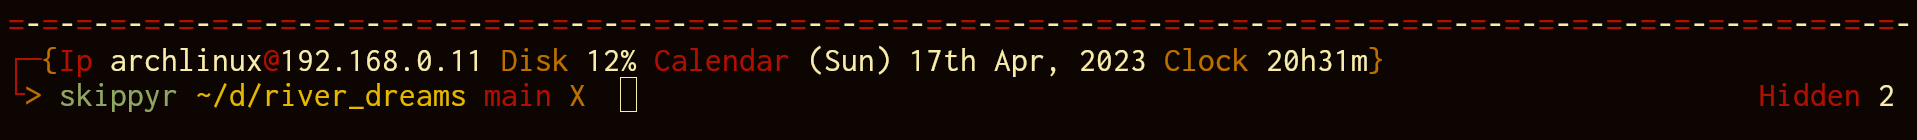
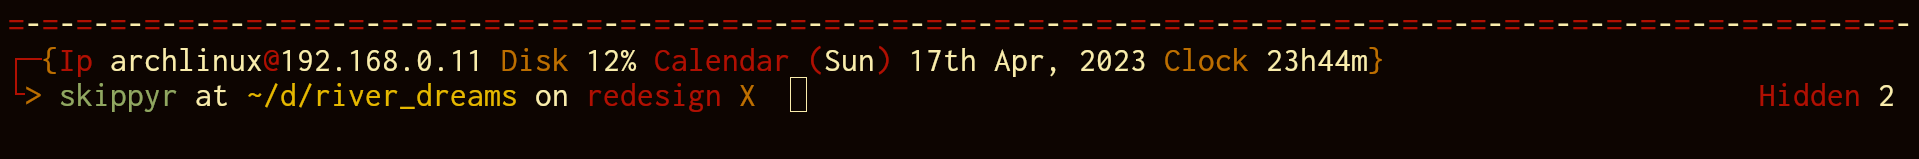
refactor: update preview

diff --git a/sources/left_prompt.c b/sources/left_prompt.c
@@ -248,7 +248,7 @@ void print_python_environment(void)
 		return;
 	}
 	printf(
-		"on %%F{magenta}%s%%f ",
+		"using %%F{magenta}%s%%f ",
 		basename(python_environment)
 	);
 	return;

diff --git a/README.md b/README.md
@@ -4,7 +4,7 @@
 		<img src="./images/image_0.png"/>
 		<img src="./images/image_1.png"/>
 		<p>In the images, River Dreams was used on the <a href="https://github.com/kovidgoyal/kitty">Kitty</a> terminal with the <a href="https://github.com/skippyr/flamerial">Flamerial</a> color palette and <a href="https://fonts.google.com/specimen/Inconsolata">Inconsolata</a> font. Noto Fonts and Symbols Nerd Font were used as fallback fonts.</p>
-		<p>The philosophy behind River Dreams is to create a comfortable and professional environment for people that want to spend most of their time in the terminal, by grouping most of the information that you would normally find in a system's bar in it.</p>
+		<p>The philosophy behind River Dreams is to create a comfortable environment for people that want to spend most of their time in the terminal, by grouping most of the information that you would normally find in a system's bar in it.</p>
 		<p>Like this, it reduces your need of a graphical environment and becomes a great addition for when you are using a window manager or can not have access to your graphical environment, like when doing a maintenance.</p>
 		<p>In your prompt, you will find:</p>
 		<ul>
